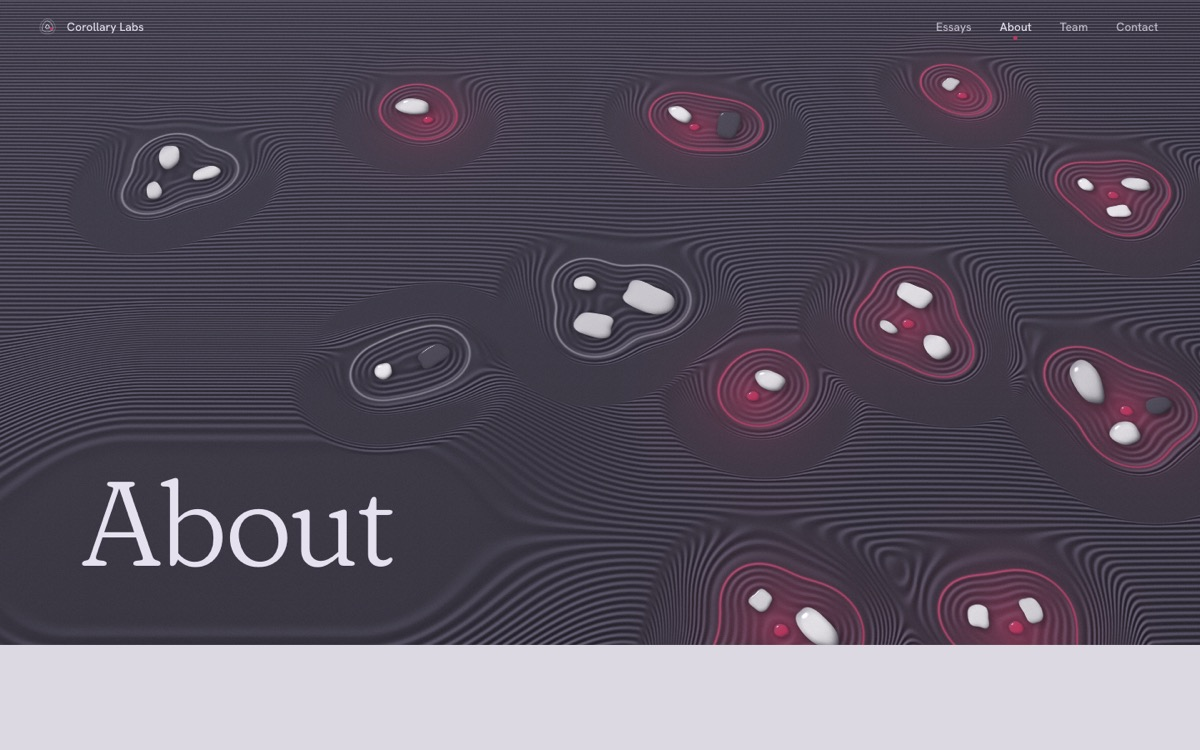
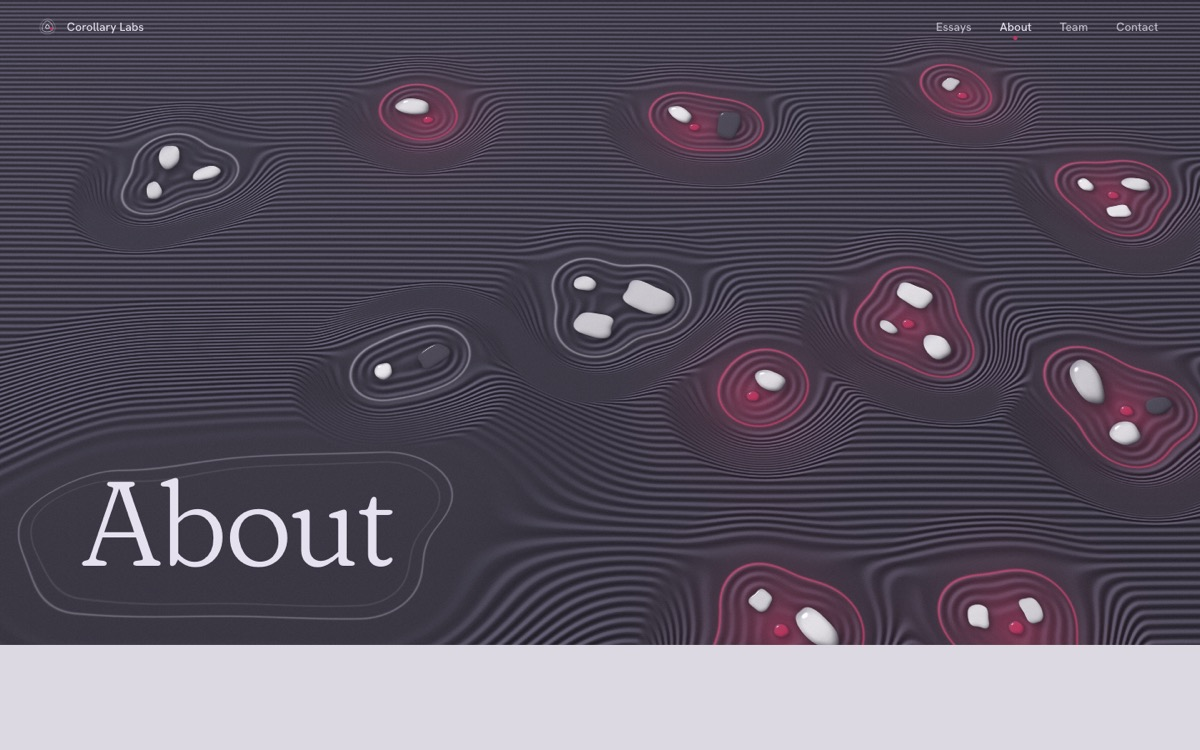
Soft round 3: final critic fixes
- Zoomed-out views scale line spacing with the camera and soften ring strength: no grey halos
- Hero and page clearings get one breathing, organic closed outline that gives way to the
  cursor; the lit rim is gone
- Named state readout; header transparent over live ground; field fades into About; strip masked
- Team: centred group, names beside stones, drags clamped inside the field and off the title
- Essays: one stone per row beside the list; essay pages keep only the figures
- Hover tint capped at 30%; travelling rose stones glow and swell along the way

diff --git a/site/src/scripts/band.ts b/site/src/scripts/band.ts
@@ -16,6 +16,7 @@ type Cfg = {
   stones?: SCfg[]; mstones?: { x: number; y: number; r: number }[];
   group?: boolean; clear?: string; hover?: string; hoverMode?: 'warm' | 'part'; drag?: boolean;
   far?: { n: number; seed: number }; dusk?: number; zoom?: number; tilt?: number; space?: number; moat?: number; pad?: number;
+  anchor?: string; labels?: string; bounded?: boolean; kScale?: number;
 };
 
 export function initBands(root: HTMLElement) {
@@ -67,6 +68,9 @@ function band(el: HTMLElement) {
   const all: Stone[] = [...stones, ...far];
 
   let cap: Cap | null = null;
+  const anchors = cfg.anchor ? [...document.querySelectorAll<HTMLElement>(cfg.anchor)] : [];
+  const labels = cfg.labels ? [...el.querySelectorAll<HTMLElement>(cfg.labels)] : [];
+  let hovered = -1;
   const clearEl = cfg.clear ? el.querySelector<HTMLElement>(cfg.clear) : null;
   const zoom = cfg.zoom ?? 1, tilt = cfg.tilt ?? 0;
   const V = () => ({ cam: [0, 0] as [number, number], zoom, tilt });
@@ -82,6 +86,7 @@ function band(el: HTMLElement) {
       const s = stones[i];
       const c = narrow ? { ...c0, ...cfg.mstones![i] } : c0;
       s.hx = c.x * W; s.hy = c.y * H; s.hr = c.r * unit;
+      if (anchors[i]) { const a = anchors[i].getBoundingClientRect(); s.hy = a.top + a.height / 2 - r.top - H / 2; s.hr = c.r * Math.min(W, 520); }
       s.tx = s.hx; s.ty = s.hy; s.tr = s.hr;
       if (s.lift === 0) { s.x = s.tx; s.y = s.ty; s.r = s.tr; }
     });
@@ -119,6 +124,20 @@ function band(el: HTMLElement) {
     }
   }
 
+  // dragged stones stay inside the band and off the heading's clearing
+  function keepIn(s: BS, x: number, y: number): [number, number] {
+    const m = s.hr * Math.max(s.aspect, 1 / s.aspect) * 1.2;
+    x = Math.min(W / 2 - m, Math.max(-W / 2 + m, x)); y = Math.min(H / 2 - m, Math.max(-H / 2 + m, y));
+    if (cap) {
+      const ex = cap.hx + m + 16, ey = cap.hy + m + 16, dx = x - cap.cx, dy = y - cap.cy;
+      if (Math.abs(dx) < ex && Math.abs(dy) < ey) {
+        const px = ex - Math.abs(dx), py = ey - Math.abs(dy);
+        if (px < py) x = cap.cx + Math.sign(dx || 1) * ex; else y = cap.cy + Math.sign(dy || 1) * ey;
+      }
+    }
+    return [x, y];
+  }
+
   // cursor
   const mouse = { x: 0, y: 0, tx: 0, ty: 0, s: 0, ts: 0 };
   let dragging: BS | null = null, dragOff = [0, 0];
@@ -134,7 +153,7 @@ function band(el: HTMLElement) {
     mouse.tx = x; mouse.ty = y;
     if (mouse.ts === 0) { mouse.x = x; mouse.y = y; }
     mouse.ts = dragging ? 0 : 1;
-    if (dragging) { dragging.tx = x - dragOff[0]; dragging.ty = y - dragOff[1]; }
+    if (dragging) { const [cx, cy] = keepIn(dragging, x - dragOff[0], y - dragOff[1]); dragging.tx = cx; dragging.ty = cy; }
     if (cfg.drag) el.classList.toggle('is-grab', !!dragging || !!hit(x, y));
     kick();
   });
@@ -163,13 +182,19 @@ function band(el: HTMLElement) {
       const s = stones[i]; if (!s) return;
       const b = base[i];
       const on = () => {
-        s.trose = 1; s.tr = s.hr * 1.12;
-        if (cfg.hoverMode === 'part') stones.forEach((o, j) => { if (j !== i) { const d = o.hx - s.hx; o.tx = o.hx + Math.sign(d || 1) * Math.max(0, 1 - Math.abs(d) / (W * 0.5)) * unit * 0.14; } });
+        hovered = i;
+        s.trose = (b.rose ?? 0) > 0.5 ? 1 : 0.3; s.tr = s.hr * 1.12;
+        if (cfg.hoverMode === 'part') stones.forEach((o, j) => {
+          if (j === i) return;
+          if (anchors.length) { const d = o.hy - s.hy; o.ty = o.hy + Math.sign(d || 1) * Math.max(0, 1 - Math.abs(d) / 400) * 26; }
+          else { const d = o.hx - s.hx; o.tx = o.hx + Math.sign(d || 1) * Math.max(0, 1 - Math.abs(d) / (W * 0.5)) * unit * 0.14; }
+        });
         kick();
       };
       const off = () => {
+        if (hovered === i) hovered = -1;
         s.trose = b.rose ?? 0; s.tr = s.hr;
-        if (cfg.hoverMode === 'part') stones.forEach((o) => { if (o !== dragging) o.tx = o.hx; });
+        if (cfg.hoverMode === 'part') stones.forEach((o) => { if (o !== dragging) { o.tx = o.hx; o.ty = o.hy; } });
         kick();
       };
       h.addEventListener('pointerenter', on); h.addEventListener('pointerleave', off);
@@ -186,15 +211,24 @@ function band(el: HTMLElement) {
     mouse.s += (mouse.ts - mouse.s) * (1 - Math.exp(-3 * dt));
     step(all, dt, { instant: reduced, gap: 6 });
     open = Math.min(1, open + dt / 1.6);
-    if (groups.length && cfg.group) groups[0].tint = Math.max(...stones.map((s) => s.rose));
+    if (groups.length && cfg.group) {
+      const want = hovered >= 0 || dragging || base.some((b) => (b.rose ?? 0) > 0.5) ? 1 : 0;
+      groups[0].tint += (want - groups[0].tint) * (1 - Math.exp(-4 * dt));
+    }
+    labels.forEach((lb, i) => {
+      const s = stones[i]; if (!s) return;
+      const on = hovered === i || dragging === s || (cfg.drag && hit(mouse.tx, mouse.ty) === s && mouse.ts > 0);
+      lb.classList.toggle('on', !!on);
+      lb.style.transform = `translate3d(${(W / 2 + s.x + s.r * Math.max(s.aspect, 1 / s.aspect) + 12).toFixed(1)}px, ${(H / 2 + s.y - 10).toFixed(1)}px, 0)`;
+    });
     const t = (now - t0) / 1000;
     ground.draw({
       ...V(), space: cfg.space ?? (W < 720 ? 9.5 : 13), time: reduced ? 0 : t, flow: reduced ? 0 : t * 2, dusk: cfg.dusk ?? 0,
-      stones: all, groups, cap: cap ? { ...cap, k: ease(open) } : null,
+      kScale: cfg.kScale ?? 1, stones: all, groups, cap: cap ? { ...cap, k: ease(open) } : null,
       mouse: reduced ? null : { x: mouse.x, y: mouse.y, s: mouse.s * 0.85, R: 60 / zoom },
     });
     const moving = all.some((s) => Math.abs(s.vx) + Math.abs(s.vy) > 0.02 || Math.abs(s.lift - s.tlift) > 0.002 || Math.abs(s.rose - s.trose) > 0.002 || Math.abs(s.r - s.tr) > 0.05)
-      || Math.abs(mouse.s - mouse.ts) > 0.002 || Math.hypot(mouse.tx - mouse.x, mouse.ty - mouse.y) > 0.3 || open < 1 || !!dragging;
+      || Math.abs(mouse.s - mouse.ts) > 0.002 || Math.hypot(mouse.tx - mouse.x, mouse.ty - mouse.y) > 0.3 || open < 1 || !!dragging || (groups[0] && Math.abs(groups[0].tint - Math.round(groups[0].tint)) > 0.01);
     // the lines drift slowly while the band is in view (not under reduced motion)
     if (visible && (moving || !reduced)) kick();
   }

diff --git a/site/src/scripts/ground.ts b/site/src/scripts/ground.ts
@@ -128,11 +128,22 @@ void main(){
   }
 
   // a heading's clearing: a rounded box, part of the same function
+  float capS = 1e9, capK = 0.0;
   if (uCapK.x > 0.001) {
     vec2 d = p - uCap.xy; vec2 b = max(uCap.zw - uCapK.y, vec2(0.0)); vec2 q = abs(d) - b;
     vec2 mq = max(q, 0.0); float lq = length(mq);
     float s = lq + min(max(q.x, q.y), 0.0) - uCapK.y;
     vec2 gs = lq > 1e-4 ? sign(d) * mq / lq : (q.x > q.y ? vec2(sign(d.x), 0.0) : vec2(0.0, sign(d.y)));
+    // an organic, slowly breathing outline rather than a box: a low-frequency wobble along the edge
+    float th0 = atan(d.y / max(uCap.w, 1.0), d.x / max(uCap.z, 1.0));
+    s += (sin(3.0*th0 + uTime*0.35) * 0.55 + sin(5.0*th0 - uTime*0.23 + 1.3) * 0.3 + sin(2.0*th0 + 0.8) * 0.4) * min(uCap.w, 60.0) * 0.28;
+    // the outline gives way where the cursor presses on it
+    if (uMouse.z > 0.001) {
+      vec2 dm = p - uMouse.xy; float Rm = uMouse.w * 1.3;
+      float em = exp(-dot(dm, dm) / (Rm*Rm)) * uMouse.z * Rm * 0.45;
+      s += em; gs += em * 2.0 * (-dm) / (Rm*Rm);
+    }
+    capS = s; capK = uCapK.x;
     float W = uCapK.z; float x = clamp(s / W, 0.0, 1.0);
     float F = x*x*(3.0 - 2.0*x); float dF = (s > 0.0 && s < W) ? 6.0*x*(1.0 - x)/W : 0.0;
     float M = 1.0 - uCapK.x*(1.0 - F);
@@ -206,6 +217,7 @@ void main(){
   // relief
   float T = (psi - uFlow) / uSpace;
   float amp = smoothstep(0.42, 0.16, length(g)/uSpace*px);
+  amp *= mix(1.0, smoothstep(0.0, uCapK.z * 0.42, capS), capK);   // no lit rim at the clearing's edge
   vec2 gh = (3.14159 * sin(6.2831853*T) / uSpace) * g * amp;
   float ampIn = smoothstep(0.42, 0.16, length(gin)*px);
   vec2 ghIn = 3.14159 * sin(6.2831853*Tin) * gin * ampIn * 0.85;
@@ -228,6 +240,12 @@ void main(){
   col = mix(col, uRose, inM * fillT * (0.05 + 0.05*uDusk));
   vec3 lc = mix(uInk, uRose * (1.0 + 0.5*uDusk), lineTint);
   col = mix(col, lc, lineA * (0.62 - 0.12*uDusk));
+  // the clearing's own closed outline
+  if (capK > 0.001) {
+    float dc = capS / px, di = (capS + 13.0) / px;
+    col = mix(col, uInk, capK * 0.34 * exp(-dc*dc / 1.1));
+    col = mix(col, uInk, capK * 0.12 * exp(-di*di / 0.9));
+  }
 
   float rz = clamp(rose, 0.0, 1.0);
   col = mix(col, mix(uRose, uLight, 0.35 - 0.3*uDusk), rz * (0.3 + 0.25*uDusk));
@@ -250,16 +268,17 @@ void main(){
     vec3 sn3 = normalize(vec3(wdir * prof, nz));
     float lam = clamp(dot(sn3, L), 0.0, 1.0);
     float wrap = clamp(dot(sn3, L) * 0.5 + 0.5, 0.0, 1.0);
-    vec3 base = mix(mix(uStone, uBasalt, hitU.z), uRose, hitT.z);
-    vec3 dark = mix(mix(uShade * 1.02, uBasalt * 0.45, hitU.z), uRose * 0.55 + vec3(0.02, 0.0, 0.04), hitT.z);
+    float rz1 = min(hitT.z, 1.0);
+    vec3 base = mix(mix(uStone, uBasalt, hitU.z), uRose, rz1);
+    vec3 dark = mix(mix(uShade * 1.02, uBasalt * 0.45, hitU.z), uRose * 0.55 + vec3(0.02, 0.0, 0.04), rz1);
     vec3 sc = mix(dark, base, smoothstep(0.05, 0.85, wrap));
-    sc = mix(sc, uLight, pow(lam, 6.0) * (0.3 + 0.2*hitT.z) * (1.0 - 0.5*hitU.z));
+    sc = mix(sc, uLight, pow(lam, 6.0) * (0.3 + 0.2*rz1) * (1.0 - 0.5*hitU.z));
     // lacquer: a sharp highlight and a reflection of the ground along the rim
     vec3 R3 = reflect(-L, sn3);
     float spec = pow(clamp(R3.z, 0.0, 1.0), 60.0);
     sc += vec3(1.0) * spec * hitU.x * 0.75;
     sc = mix(sc, uGround * 1.05, hitU.x * 0.22 * smoothstep(0.6, 1.0, f2));
-    sc += uRose * hitT.z * 0.2 * pow(1.0 - sn3.z, 2.0) * (1.0 - lam);
+    sc += uRose * rz1 * 0.2 * pow(1.0 - sn3.z, 2.0) * (1.0 - lam);
     sc = mix(sc, uGround, 0.16 * smoothstep(0.55, 1.0, f2) * clamp(dot(wdir, vec2(0.4, 0.9)), 0.0, 1.0));
     col = mix(col, sc, edge * smoothstep(0.0, 0.08, hitT.w));
   }
@@ -270,11 +289,11 @@ void main(){
 `;
 
 // ── the same field on the CPU, for the values the shader needs as constants ───────────────────
-function stonePsi(stones: StoneState[], x: number, y: number) {
+function stonePsi(stones: StoneState[], x: number, y: number, kS = 1) {
   let psi = y;
   for (const s of stones) {
     if (s.lift < 0.002) continue;
-    const r = s.r * (0.35 + 0.65 * s.lift), R = r * 2.4 + 18, k = s.k * s.lift;
+    const r = s.r * (0.35 + 0.65 * s.lift), R = r * 2.4 + 18, k = s.k * s.lift * kS;
     const d = Math.hypot(x - s.x, y - s.y);
     psi += d > R * 4.2 ? k * R : k * R * Math.tanh(d / R);
   }
@@ -329,6 +348,7 @@ export type Frame = {
   flow?: number;
   tilt?: number;
   dusk?: number;
+  kScale?: number;
   time: number;
 };
 
@@ -403,17 +423,18 @@ export class Ground {
     }
     for (const s of f.stones) if (!seen.has(s) && order.length < MAXS && (s.lift > 0.002)) { seen.add(s); order.push(s); }
     const n = order.length;
+    const kS = f.kScale ?? 1;
     for (let i = 0; i < n; i++) {
       const s = order[i];
       this.S.set([s.x, s.y, s.r, s.aspect], i * 4);
-      this.T.set([s.rot, s.k, s.rose, s.lift], i * 4);
+      this.T.set([s.rot, s.k * kS, s.rose, s.lift], i * 4);
       this.U.set([s.gloss, s.squar, s.tone, s.gw], i * 4);
     }
     // constants: the value of the field at each clearing
     const c = f.cap && f.cap.k > 0.001 ? f.cap : null;
-    const psiCap = c ? stonePsi(order, c.cx, c.cy) : 0;
+    const psiCap = c ? stonePsi(order, c.cx, c.cy, kS) : 0;
     const psiAt = (x: number, y: number) => {
-      let v = stonePsi(order, x, y);
+      let v = stonePsi(order, x, y, kS);
       if (c) { const M = 1 - c.k * (1 - smooth01(sdBox(c, x, y) / c.moat)); v = psiCap + (v - psiCap) * M; }
       return v;
     };

diff --git a/site/src/styles/global.css b/site/src/styles/global.css
@@ -107,6 +107,7 @@ ol, ul { list-style: none; }
     var(--ground);
 }
 .field.has-gl .field__fallback { display: none; }
+.field__stick::after { content: ''; position: absolute; left: 0; right: 0; bottom: 0; height: 80px; z-index: 1; pointer-events: none; background: linear-gradient(to bottom, rgba(220, 217, 226, 0), var(--ground)); opacity: var(--edge, 0); }
 .field__center { position: absolute; left: 50%; top: 50%; translate: -50% -54%; display: grid; justify-items: center; gap: clamp(14px, 1.6vw, 26px); will-change: opacity, transform, filter; }
 .field__name {
   font-family: var(--display); font-weight: 300; font-variation-settings: 'SOFT' 100, 'WONK' 0;
@@ -134,7 +135,8 @@ html.rm .field__cue i { animation: none; top: 24px; }
 .home-about { padding-top: clamp(72px, 12vh, 140px); padding-bottom: clamp(56px, 9vh, 100px); display: grid; grid-template-columns: minmax(120px, 1fr) 4fr; gap: 24px 40px; align-items: start; }
 .home-about .label { padding-top: 0.9em; }
 .home-about__text { font-family: var(--display); font-weight: 300; font-variation-settings: 'SOFT' 100, 'WONK' 0; font-size: clamp(34px, 4.6vw, 68px); line-height: 1.06; letter-spacing: -0.02em; }
-.strip { height: clamp(150px, 22vh, 220px); }
+.strip { height: clamp(170px, 24vh, 240px); }
+.strip .band__canvas { -webkit-mask-image: linear-gradient(to bottom, transparent, #000 28%, #000 72%, transparent); mask-image: linear-gradient(to bottom, transparent, #000 28%, #000 72%, transparent); }
 .strip.is-grab, .band.is-grab { cursor: grab; }
 .band.is-dragging { cursor: grabbing; }
 
@@ -240,3 +242,21 @@ html.js:not(.rm) [data-reveal].in { opacity: 1; transform: none; filter: none; }
 html.js:not(.rm) .page-band [data-clear], html.js:not(.rm) .essay-head [data-essay-title], html.js:not(.rm) .contact-band [data-clear] > * { animation: settle 1.5s var(--soft) 0.35s both; }
 html.js:not(.rm) .contact-band [data-clear] > :nth-child(2) { animation-delay: 0.5s; }
 html.js:not(.rm) .contact-band [data-clear] > :nth-child(3) { animation-delay: 0.65s; }
+
+/* essays index: the list, with its stones in a column of ground beside it */
+.essays-page { padding-top: clamp(120px, 20vh, 200px); padding-bottom: clamp(80px, 14vh, 160px); }
+.page-title { font-family: var(--display); font-weight: 300; font-variation-settings: 'SOFT' 100, 'WONK' 0; font-size: clamp(56px, 10vw, 160px); line-height: 0.9; letter-spacing: -0.03em; margin: 0 0 clamp(32px, 6vh, 64px) -0.06em; }
+.essays-grid { display: grid; grid-template-columns: 1fr minmax(180px, 32%); align-items: stretch; }
+.essays-field { border-radius: 0 0 0 0; min-height: 360px; -webkit-mask-image: linear-gradient(to bottom, transparent, #000 12%, #000 88%, transparent); mask-image: linear-gradient(to bottom, transparent, #000 12%, #000 88%, transparent); }
+.essays-grid .essay-row { grid-template-columns: 56px 1fr; }
+.essays-grid .essay-row__meta { grid-column: 2; grid-row: auto; text-align: left; }
+@media (max-width: 720px) {
+  .essays-grid { grid-template-columns: 1fr 26%; }
+  .essays-grid .essay-row { grid-template-columns: 30px 1fr; padding-right: 10px; }
+}
+
+/* team: the group in the middle, names beside their stones */
+.page-band--team { height: clamp(460px, 76vh, 760px); place-items: end stretch; }
+.page-band--team h1 { font-size: clamp(48px, 7vw, 110px); }
+.band > .stone-label { position: absolute; left: 0; top: 0; z-index: 3; font-family: var(--display); font-weight: 300; font-variation-settings: 'SOFT' 100, 'WONK' 0; font-size: 22px; white-space: nowrap; pointer-events: none; opacity: 0; filter: blur(4px); transition: opacity 0.5s var(--soft), filter 0.5s var(--soft); }
+.band > .stone-label.on { opacity: 1; filter: none; }

diff --git a/site/src/scripts/home.ts b/site/src/scripts/home.ts
@@ -171,6 +171,7 @@ export function initHome(root: HTMLElement) {
     };
     show(phs[1], 0.3, 0.5); show(phs[2], 0.62, 1.3);
     if (cue) cue.style.opacity = String((1 - seg(p, 0.0, 0.04)) * nameIn);
+    section!.style.setProperty('--edge', ease(seg(p, 0.7, 0.82)).toFixed(3));
 
     // the organisation rises
     org.members.forEach((s, i) => { s.tlift = p > 0.09 + i * 0.035 ? 1 : 0; });
@@ -209,17 +210,18 @@ export function initHome(root: HTMLElement) {
     if (idx) {
       const st = p < 0.2 ? 1 : p < 0.45 ? 2 : p < 0.58 ? 3 : 4;
       const reached = others.filter((c) => c.on).length + (org.rose.gw > 0.5 ? 1 : 0);
-      const s = `${String(st).padStart(2, '0')}/04 t ${p.toFixed(2)} n ${org.members.filter((m) => m.tlift > 0).length + (org.rose.gw > 0.5 ? 1 : 0)} ${reached}/${others.length + 1}`;
+      const s = `state ${st}/4\u2002\u00b7\u2002stones ${org.members.filter((m) => m.tlift > 0).length + (org.rose.gw > 0.5 ? 1 : 0)}\u2002\u00b7\u2002reached ${reached}/${others.length + 1}`;
       if (s !== lastIdx) { idx.textContent = s; lastIdx = s; }
     }
   }
 
+  const r0 = (r: Stone) => ((r as any).r0 ??= r.tr);
   // each travelling rose follows the lines: mostly across first, then down into its group
   function travel(now: number) {
     for (const c of others) {
       const r = c.rose;
       if (!c.on) { r.tlift = 0; r.tgw = 0; r.hold = false; rowTargets(c); continue; }
-      const tau = clamp((now - c.t0) / 1.2);
+      const tau = clamp((now - c.t0) / 1.7);
       r.tlift = 1;
       if (tau < 1) {
         const ex = ease(tau), ey = ease(clamp((tau - 0.25) / 0.75));
@@ -229,9 +231,10 @@ export function initHome(root: HTMLElement) {
         r.tx = r.x; r.ty = r.y;
         r.tgw = ease(clamp((tau - 0.6) / 0.4));
         r.solid = false;
+        r.trose = r.rose = 1 + 1.6 * Math.sin(Math.PI * tau); r.tr = r.r = r0(r) * (1 + 0.35 * Math.sin(Math.PI * tau));
         rowTargets(c);
       } else {
-        r.hold = false; r.tx = c.cx; r.ty = c.cy; r.tgw = 1; r.solid = true;
+        r.hold = false; r.tx = c.cx; r.ty = c.cy; r.tgw = 1; r.solid = true; r.trose = 1; r.tr = r0(r);
         ringTargets(c);
       }
     }
@@ -245,6 +248,7 @@ export function initHome(root: HTMLElement) {
       zoom: 1 + (zoomOut - 1) * z,
       tilt: tiltMax * ease(seg(p, 0.5, 0.72)),
       dusk: 0.88 * ease(seg(p, 0.5, 0.7)),
+      z,
     };
   }
 
@@ -300,10 +304,11 @@ export function initHome(root: HTMLElement) {
     for (let i = fading.length - 1; i >= 0; i--) if (fading[i].lift < 0.01) fading.splice(i, 1);
     const v = view(p);
     stick.toggleAttribute('data-dark', v.dusk > 0.45);
+    const breathe = reduced ? 0 : Math.sin(t * 0.8) * 5 * unit;
     ground.draw({
-      ...v, space, time: reduced ? 0 : t, flow: reduced ? 0 : t * 2.4,
+      ...v, space: space * (1 + (1 / v.zoom - 1) * 0.62), kScale: 1 - 0.45 * v.z, time: reduced ? 0 : t, flow: reduced ? 0 : t * 2.4,
       stones: live, groups: [org.group, ...others.map((c) => c.group)],
-      cap: { ...cap, k: capK() },
+      cap: { ...cap, hx: cap.hx + breathe, hy: cap.hy + breathe * 0.6, k: capK() },
       mouse: reduced ? null : { x: mouse.x, y: mouse.y, s: mouse.s * 0.9, R: 64 * unit },
     });
     if (visible) kick();

diff --git a/site/src/styles/essay.css b/site/src/styles/essay.css
@@ -1,6 +1,6 @@
 /* Essay reading page */
-.essay-head { min-height: clamp(460px, 74vh, 760px); display: flex; align-items: flex-end; }
-.essay-head__in { padding-top: 120px; padding-bottom: clamp(56px, 10vh, 110px); }
+.essay-head { display: flex; align-items: flex-end; }
+.essay-head__in { padding-top: clamp(120px, 20vh, 200px); padding-bottom: clamp(40px, 7vh, 80px); }
 .essay-head__block { max-width: min(760px, 62vw); padding: 0.4em 0.6em 0.4em 0; }
 .essay-head__meta { display: flex; flex-wrap: wrap; gap: 10px; font-size: 13.5px; color: var(--ink-2); margin-bottom: 22px; }
 .essay-head__meta a { color: var(--ink); }
@@ -9,7 +9,7 @@
 .essay-head__dek { margin-top: 22px; font-size: clamp(17px, 1.5vw, 20px); line-height: 1.5; color: var(--ink-2); max-width: 34em; }
 @media (max-width: 720px) {
   .essay-head { min-height: 0; }
-  .essay-head__in { padding-top: 64vw; }
+  .essay-head__in { padding-top: 110px; }
   .essay-head__block { max-width: none; }
 }
 

diff --git a/site/src/scripts/app.ts b/site/src/scripts/app.ts
@@ -31,7 +31,10 @@ let navQueued = false;
 const navCheck = () => {
   navQueued = false;
   if (!nav) return;
-  nav.classList.toggle('is-scrolled', window.scrollY > 24);
+  // transparent over a live ground; backed only when text runs under it
+  let overGround = false;
+  document.querySelectorAll<HTMLElement>('.field__stick, .band').forEach((el) => { const r = el.getBoundingClientRect(); if (r.top < 8 && r.bottom > 64) overGround = true; });
+  nav.classList.toggle('is-scrolled', window.scrollY > 24 && !overGround);
   let dark = false;
   document.querySelectorAll<HTMLElement>('[data-dark]').forEach((el) => { const r = el.getBoundingClientRect(); if (r.top < 30 && r.bottom > 30) dark = true; });
   nav.classList.toggle('on-dark', dark);
